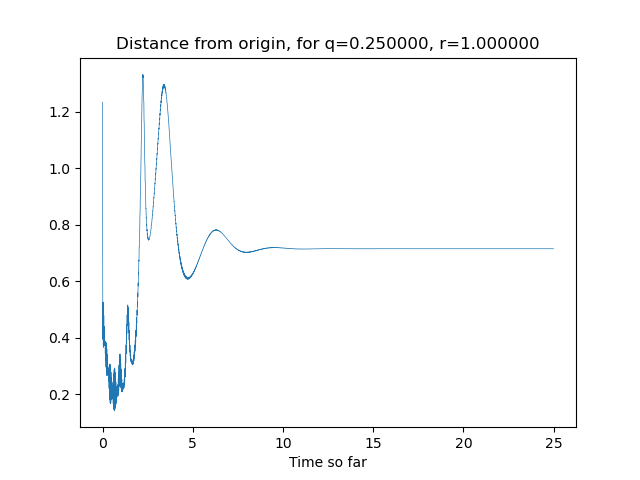
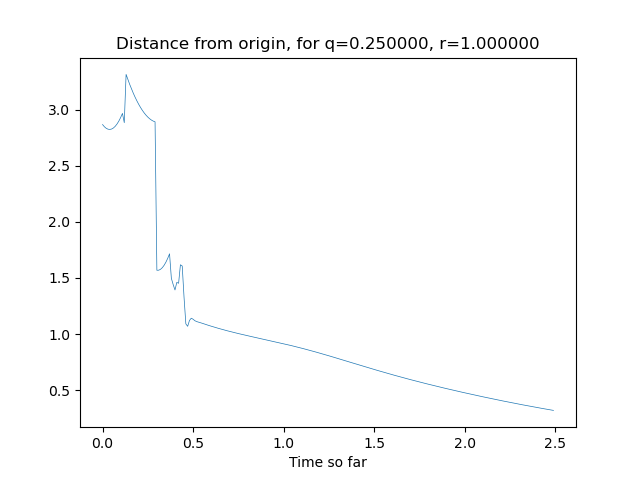
finished basic quadcopter animation

diff --git a/backup_set_methods.py b/backup_set_methods.py
@@ -37,6 +37,11 @@ param_dict = {
 }
 param_dict["M"] = param_dict["m"] + param_dict["m_p"]
 
+ub = 20
+thresh = np.array([math.pi / 3, math.pi / 3, math.pi, ub, ub, ub, math.pi / 3, math.pi / 3, ub, ub],
+                  dtype=np.float32)  # angular velocities bounds probably much higher in reality (~10-20 for drone, which can do 3 flips in 1 sec).
+x_lim = np.concatenate((-thresh[:, None], thresh[:, None]), axis=1)  # (13, 2)
+
 env = FlyingInvertedPendulumEnv(param_dict)
 
 state_index_names = ["gamma", "beta", "alpha", "dgamma", "dbeta", "dalpha", "phi", "theta", "dphi",
@@ -53,7 +58,7 @@ def simulate_quadrotor(xdot_fn, u_fn, timesteps=1000):
 	u_forces_all = []
 	distances = []
 
-	eps = np.random.normal(scale=0.1, size=10)  # let x0 be approximately in the 0-centered norm ball
+	eps = np.random.normal(scale=0.5, size=10)  # let x0 be approximately in the 0-centered norm ball
 	target = np.zeros(10)  # Stabilize to origin
 	xcurr = target + eps
 	xcurr = np.concatenate((xcurr, np.zeros(6))) # adding [x, y, z] and derivatives to the end
@@ -104,25 +109,33 @@ import matplotlib.animation as animation
 
 def animate_quadcopter(r, param_dict, save_fpth):
 	# Define parameters
+	r = np.array(r)
 
 	# Note: lengths are not proportional
 	quad_axis_length = 1.0
 	e1 = np.array([1.0, 0, 0])*quad_axis_length # note: will double the stated length
 	e2 = np.array([0, 1.0, 0])*quad_axis_length
 
-	pend_axis_length = 1.0
-	e3 = np.array([0, 1.0, 0])*pend_axis_length
+	pend_axis_length = quad_axis_length
+	e3 = np.array([0, 0, 1.0])*pend_axis_length
 
 	fig = plt.figure()
 	ax = fig.add_subplot(111, projection='3d')
 
 	# Define patches, etc.
 	origin = np.zeros(3)
-
 	quad_axis1 = art3d.Line3D([1, -1], [0, 0], [0, 0], color='k')
 	quad_axis2 = art3d.Line3D([0, 0], [1, -1], [0, 0], color='k')
 	pend = art3d.Line3D([0, 0], [0, 0], [0, 1], color='r')
-	traj, = ax.plot([], [], marker=".", color="grey")
+	# traj, = ax.plot3D([], [], [], marker=".", color="grey")
+
+	xs = r[:, state_index_dict["x"]]
+	ys = r[:, state_index_dict["y"]]
+	zs = r[:, state_index_dict["z"]]
+	ax.plot(xs, ys, zs)
+
+	set_axes_equal(ax)
+	ax.set_box_aspect([1, 1, 1])
 
 	# IPython.embed()
 	def init():
@@ -131,7 +144,7 @@ def animate_quadcopter(r, param_dict, save_fpth):
 		ax.add_line(quad_axis2)
 		ax.add_line(pend)
 
-		rv = [quad_axis1, quad_axis2, pend, traj]
+		rv = [quad_axis1, quad_axis2, pend]
 		return rv
 
 
@@ -144,7 +157,7 @@ def animate_quadcopter(r, param_dict, save_fpth):
 		phi = r[i, state_index_dict["phi"]]
 		theta = r[i, state_index_dict["theta"]]
 
-		R = np.zeros(3, 3)
+		R = np.zeros((3, 3))
 		R[0, 0] = np.cos(alpha) * np.cos(beta)
 		R[0, 1] = np.cos(alpha) * np.sin(beta) * np.sin(gamma) - np.sin(alpha) * np.cos(gamma)
 		R[0, 2] = np.cos(alpha) * np.sin(beta) * np.cos(gamma) + np.sin(alpha) * np.sin(gamma)
@@ -159,13 +172,13 @@ def animate_quadcopter(r, param_dict, save_fpth):
 		r2 = R@e2
 		p = r[i, [state_index_dict["x"], state_index_dict["y"], state_index_dict["z"]]]
 
-		ax1 = np.concatenate([p-r1, p+r1], axis=1)
+		ax1 = np.concatenate([(p-r1)[:, None], (p+r1)[:, None]], axis=1)
 		quad_axis1.set_data_3d(ax1[0], ax1[1], ax1[2])
 
-		ax2 = np.concatenate([p-r1, p+r1], axis=1)
+		ax2 = np.concatenate([(p-r2)[:, None], (p+r2)[:, None]], axis=1)
 		quad_axis2.set_data_3d(ax2[0], ax2[1], ax2[2])
 
-		R_pend = np.zeros(3, 3)
+		R_pend = np.zeros((3, 3))
 
 		R_pend[0, 0] = np.cos(0) * np.cos(theta)
 		R_pend[0, 1] = np.cos(0) * np.sin(theta) * np.sin(phi) - np.sin(0) * np.cos(phi)
@@ -178,35 +191,53 @@ def animate_quadcopter(r, param_dict, save_fpth):
 		R_pend[2, 2] = np.cos(theta) * np.cos(phi)
 
 		r3 = R_pend@e3
-		ax3 = np.concatenate([p, p+r3], axis=1)
+		ax3 = np.concatenate([p[:, None], (p+r3)[:, None]], axis=1)
 		pend.set_data_3d(ax3[0], ax3[1], ax3[2])
 
 		# Finally, plot the trajectory
-		traj.set_data(r[:i, state_index_dict["x"]], r[:i, state_index_dict["y"]], r[:i, state_index_dict["z"]])
+		# traj.set_data(r[:i, state_index_dict["x"]], r[:i, state_index_dict["y"]])
+		# traj.set_3d_properties(r[:i, state_index_dict["z"]], "z")
 
-		rv = [quad_axis1, quad_axis2, pend, traj]
+		rv = [quad_axis1, quad_axis2, pend]
 		return rv
 
 	# IPython.embed()
-	anim = animation.FuncAnimation(fig, animate, init_func=init, frames=r.shape[0], interval=2500,
+	print(r.shape[0])
+	anim = animation.FuncAnimation(fig, animate, init_func=init, frames=r.shape[0],
 	                               blit=True)  # interval: real time, delay between frames in ms, 20
-	FFwriter = animation.FFMpegWriter(fps=1)
+	FFwriter = animation.FFMpegWriter(fps=60)
 	anim.save(save_fpth, writer=FFwriter, dpi=600)
 
 def plot_fancy_3D(r, save_fpth):
+	r = np.array(r)
+
 	quad_axis_length = 1.0
 	e1 = np.array([1.0, 0, 0])*quad_axis_length # note: will double the stated length
 	e2 = np.array([0, 1.0, 0])*quad_axis_length
 
-	pend_axis_length = 1.0
-	e3 = np.array([0, 1.0, 0])*pend_axis_length
+	pend_axis_length = quad_axis_length
+	e3 = np.array([0, 0, 1.0])*pend_axis_length
 
 	fig = plt.figure()
 	ax = fig.add_subplot(111, projection='3d')
+	# ax.set_aspect("equal")
 
-	ax.plot(r[state_index_dict["x"]], r[state_index_dict["y"]], r[state_index_dict["z"]])
+	# Option 2: aspect ratio 1:1:1 in view space
+	# ax.set_proj_type('ortho') # OPTIONAL - default is perspective (shown in image above)
+	# set_axes_equal(ax)
+	xs = r[:, state_index_dict["x"]]
+	ys = r[:, state_index_dict["y"]]
+	zs = r[:, state_index_dict["z"]]
+	ax.plot(xs, ys, zs)
 
-	for i in np.arange(0, r.shape[0], 50):
+	set_axes_equal(ax)
+	# ax.set_box_aspect((np.ptp(xs), np.ptp(ys), np.ptp(zs)))
+	ax.set_box_aspect([1, 1, 1])  # IMPORTANT - this is the new, key line
+
+	skip_length = 50 # TODO: set skip length
+	n_skip = r.shape[0]//skip_length
+	# IPython.embed()
+	for i in np.arange(0, r.shape[0], skip_length):
 		gamma = r[i, state_index_dict["gamma"]]
 		beta = r[i, state_index_dict["beta"]]
 		alpha = r[i, state_index_dict["alpha"]]
@@ -214,7 +245,7 @@ def plot_fancy_3D(r, save_fpth):
 		phi = r[i, state_index_dict["phi"]]
 		theta = r[i, state_index_dict["theta"]]
 
-		R = np.zeros(3, 3)
+		R = np.zeros((3, 3))
 		R[0, 0] = np.cos(alpha) * np.cos(beta)
 		R[0, 1] = np.cos(alpha) * np.sin(beta) * np.sin(gamma) - np.sin(alpha) * np.cos(gamma)
 		R[0, 2] = np.cos(alpha) * np.sin(beta) * np.cos(gamma) + np.sin(alpha) * np.sin(gamma)
@@ -229,18 +260,17 @@ def plot_fancy_3D(r, save_fpth):
 		r2 = R@e2
 		p = r[i, [state_index_dict["x"], state_index_dict["y"], state_index_dict["z"]]]
 
-		ax1 = np.concatenate([p-r1, p+r1], axis=1)
-		# quad_axis1.set_data_3d(ax1[0], ax1[1], ax1[2])
-		quad_axis1 = art3d.Line3D(ax1[0], ax1[1], ax1[2], color='k')
+		# IPython.embed()
+		# print(i/float(n_skip))
+		ax1 = np.concatenate([(p-r1)[:, None], (p+r1)[:, None]], axis=1)
+		quad_axis1 = art3d.Line3D(ax1[0], ax1[1], ax1[2], color='k', alpha=(float(i)/r.shape[0]))
 		ax.add_line(quad_axis1)
 
-		ax2 = np.concatenate([p-r1, p+r1], axis=1)
-		# quad_axis2.set_data_3d(ax2[0], ax2[1], ax2[2])
-		quad_axis2 = art3d.Line3D(ax2[0], ax2[1], ax2[2], color='k')
+		ax2 = np.concatenate([(p-r2)[:, None], (p+r2)[:, None]], axis=1)
+		quad_axis2 = art3d.Line3D(ax2[0], ax2[1], ax2[2], color='k', alpha=(float(i)/r.shape[0]))
 		ax.add_line(quad_axis2)
 
-		R_pend = np.zeros(3, 3)
-
+		R_pend = np.zeros((3, 3))
 		R_pend[0, 0] = np.cos(0) * np.cos(theta)
 		R_pend[0, 1] = np.cos(0) * np.sin(theta) * np.sin(phi) - np.sin(0) * np.cos(phi)
 		R_pend[0, 2] = np.cos(0) * np.sin(theta) * np.cos(phi) + np.sin(0) * np.sin(phi)
@@ -252,12 +282,74 @@ def plot_fancy_3D(r, save_fpth):
 		R_pend[2, 2] = np.cos(theta) * np.cos(phi)
 
 		r3 = R_pend@e3
-		ax3 = np.concatenate([p, p+r3], axis=1)
-		# pend.set_data_3d(ax3[0], ax3[1], ax3[2])
-		pend = art3d.Line3D(ax3[0], ax3[1], ax3[2], color='k')
+		ax3 = np.concatenate([p[:, None], (p+r3)[:, None]], axis=1)
+		pend = art3d.Line3D(ax3[0], ax3[1], ax3[2], color='r', alpha=(float(i)/r.shape[0]))
 		ax.add_line(pend)
 
 	plt.savefig(save_fpth)
+	# plt.show()
+
+def set_axes_equal(ax):
+    """Set 3D plot axes to equal scale.
+
+    Make axes of 3D plot have equal scale so that spheres appear as
+    spheres and cubes as cubes.  Required since `ax.axis('equal')`
+    and `ax.set_aspect('equal')` don't work on 3D.
+    """
+    limits = np.array([
+        ax.get_xlim3d(),
+        ax.get_ylim3d(),
+        ax.get_zlim3d(),
+    ])
+    origin = np.mean(limits, axis=1)
+    radius = 0.5 * np.max(np.abs(limits[:, 1] - limits[:, 0]))
+    _set_axes_radius(ax, origin, radius)
+
+def _set_axes_radius(ax, origin, radius):
+    x, y, z = origin
+    ax.set_xlim3d([x - radius, x + radius])
+    ax.set_ylim3d([y - radius, y + radius])
+    ax.set_zlim3d([z - radius, z + radius])
+
+def batch_simulate_T_seconds(x_batch, xdot_fn, u_fn, T):
+	for i in range(T/float(dt)):
+		u_batch = u_fn(x_batch)
+		x_batch = x_batch + dt*xdot_fn(x_batch, u_batch)
+
+	return x_batch
+
+def compute_backup_set(params_to_viz, xdot_fn, u_fn, save_fpth, T=3.0):
+	tol = 1e-3
+	# params_to_viz is a tuple of parameter names
+	ind1, ind2 = params_to_viz
+
+	delta = 0.01  # larger for 3D plotting, due to latency
+	x = np.arange(x_lim[ind1, 0], x_lim[ind1, 1], delta)
+	y = np.arange(x_lim[ind2, 0], x_lim[ind2, 1], delta)[::-1]  # need to reverse it # TODO
+	X, Y = np.meshgrid(x, y)
+
+	processing_batch_size = 100
+	inside_implicit_ss = np.zeros(X.size)
+	for i in range(math.ceil(X.size/processing_batch_size)):
+		ind1_batch = X.flatten()[i * processing_batch_size:max(X.size, (i + 1) * processing_batch_size)]
+		ind2_batch = Y.flatten()[i * processing_batch_size:max(X.size, (i + 1) * processing_batch_size)]
+		x_batch = np.zeros((ind1_batch.size, 16))
+		x_batch[:, state_index_dict[ind1]] = ind1_batch
+		x_batch[:, state_index_dict[ind2]] = ind2_batch
+
+		x_batch_T = batch_simulate_T_seconds(x_batch, xdot_fn, u_fn, T)
+		x_batch_inside = np.linalg.norm(x_batch_T[:, :10], axis=1) < tol
+		inside_implicit_ss[i * processing_batch_size:max(X.size, (i + 1) * processing_batch_size)] = x_batch_inside
+
+	img = np.reshape(inside_implicit_ss, X.shape)
+
+	# np.save('test3.npy', a)  # .npy extension is added if not given
+	# d = np.load('test3.npy')
+	np.save(save_fpth + ".npy", img)
+	plt.plot(img)
+	plt.savefig(save_fpth + ".png")
+	plt.show()
+
 
 if __name__ == "__main__":
 	# IPython.embed()
@@ -288,7 +380,7 @@ if __name__ == "__main__":
 	# assert rk == 10
 
 	# Use LQR to compute feedback portion of controller
-	q = 1.5
+	q = 0.25 # 1 is the limit
 	r = 1
 	Q = q * np.eye(10)
 	R = r * np.eye(4)
@@ -344,14 +436,18 @@ if __name__ == "__main__":
 	# Plot 3D trajectory
 	from mpl_toolkits.mplot3d import Axes3D
 
-	fig = plt.figure()
-	ax = fig.add_subplot(111, projection='3d')
-	x_all = np.array(x_all)  # 1001 x 10
-	# IPython.embed()
-	plt.title("Trajectory of closed loop system, for q=%f, r=%f" % (q, r))
-	ax.plot(x_all[:, 6], x_all[:, 7], x_all[:, 8])
-	interval = 50
-	plt.show()
+	# fig = plt.figure()
+	# ax = fig.add_subplot(111, projection='3d')
+	# x_all = np.array(x_all)  # 1001 x 10
+	# # IPython.embed()
+	# plt.title("Trajectory of closed loop system, for q=%f, r=%f" % (q, r))
+	# ax.plot(x_all[:, 6], x_all[:, 7], x_all[:, 8])
+	# interval = 50
+	# plt.show()
+
+	# plot_fancy_3D(x_all, "backup_set_outputs/fancy_3d_plot_q_%f_r_%f.png" % (q,r))
+
+	animate_quadcopter(x_all, param_dict, "backup_set_outputs/animation_q_%f_r_%f.gif" % (q,r))
 
 
 
